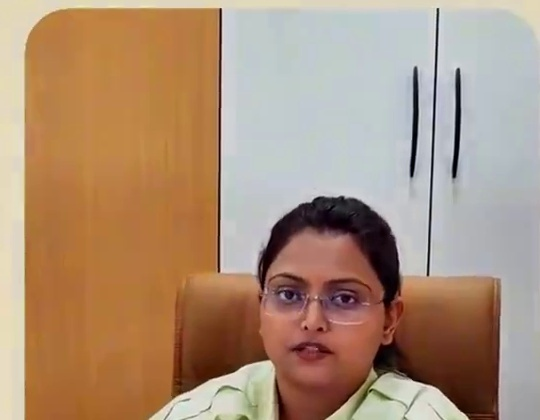
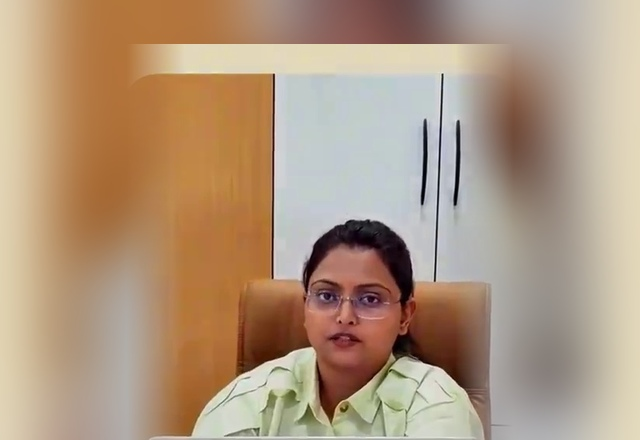
Permanently fix testimonial thumbnails: extracted full original video frames with matching ambient blurred extensions, centered faces and zero cropping

diff --git a/src/styles/successStories.css b/src/styles/successStories.css
@@ -4544,24 +4544,25 @@
   width: 100%;
   height: 100%;
   object-fit: cover;
+  object-position: center center;
   display: block;
   transition: transform 0.4s ease;
 }
 
 .ss-cs-card-media:hover .ss-cs-card-img {
-  transform: scale(1.04);
+  transform: scale(1.03);
 }
 
 .ss-cs-card-img-raj {
-  object-position: center 25%;
+  object-position: center center;
 }
 
 .ss-cs-card-img-yoshita {
-  object-position: center 20%;
+  object-position: center center;
 }
 
 .ss-cs-card-img-pragnesh {
-  object-position: center 22%;
+  object-position: center center;
 }
 
 /* Industry Category Badge (Top-Left of photo) */
